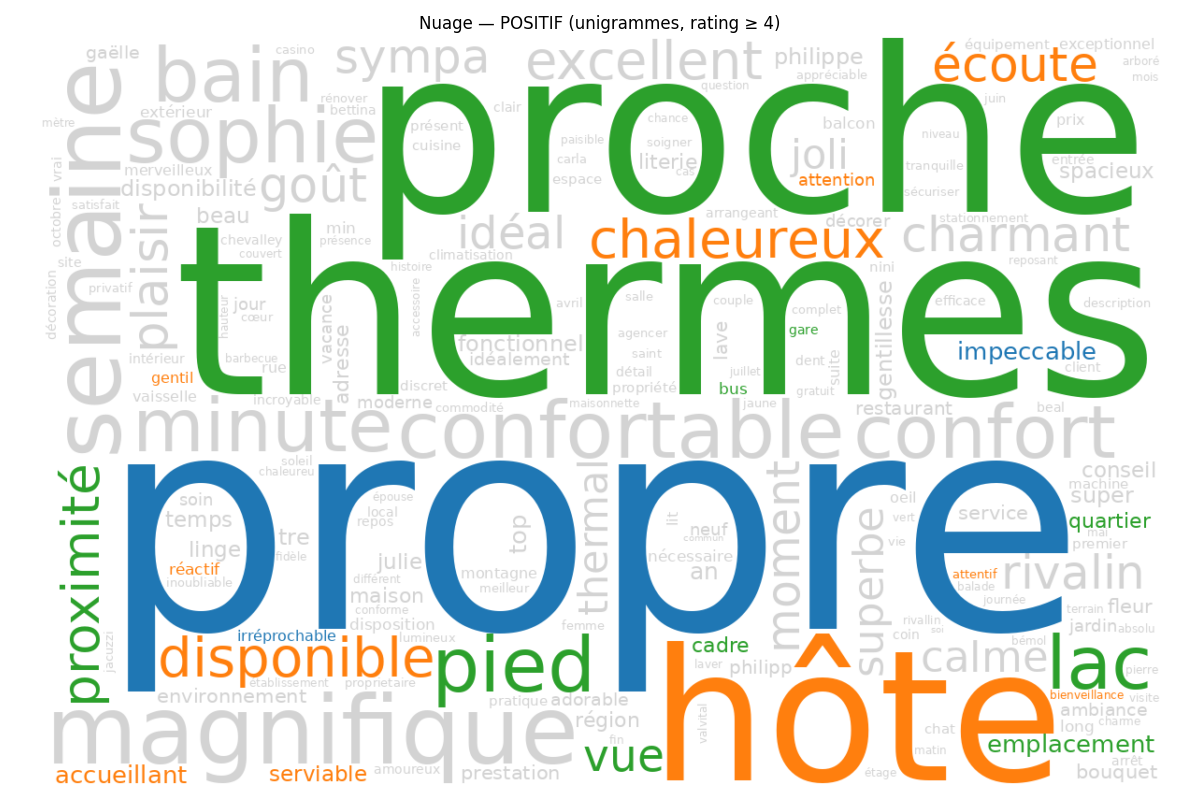
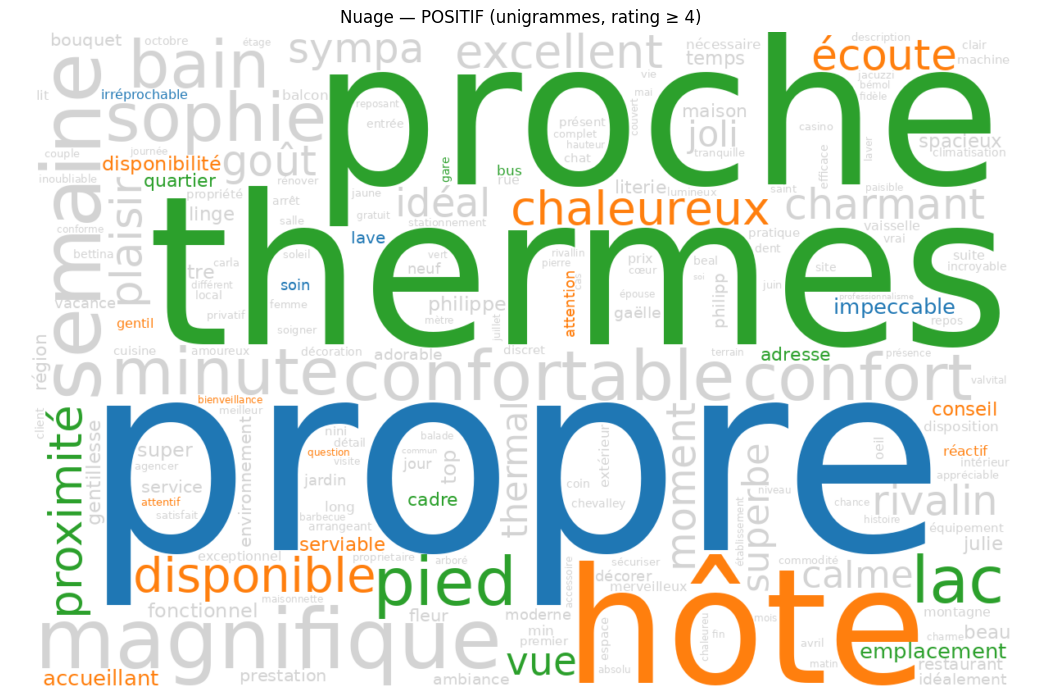
Add some extra words to clusters
+ uncomment main.py

diff --git a/src/analyze_nlp_data.py b/src/analyze_nlp_data.py
@@ -28,7 +28,7 @@ logger = logging.getLogger(__name__)
 # ----------------------------- Ressources linguistiques ------------------------
 
 # spaCy : tokenizer + tagger + lemmatizer (pas de parser/NER pour perf)
-nlp = spacy.load("fr_core_news_lg", disable=["parser", "ner"])
+nlp = spacy.load("fr_core_news_sm", disable=["parser", "ner"])
 
 # Stopwords FR + stopwords de contexte (hébergement)
 STOPWORDS_FR = set(stopwords.words("french"))
@@ -37,7 +37,7 @@ STOPWORDS_METIER = {
     "appart", "chambre", "logements", "immeuble", "airbnb", "booking", "loc", "curiste", "curistes", "cure"
 }
 STOPWORDS_EXTRACLEANING = {
-    "agréable", "bon", "merci",  "sympathique", "impossible"
+    "agréable", "bon", "merci",  "sympathique", "impossible", "an", "vu"
 }
 STOPWORDS = STOPWORDS_FR | STOPWORDS_METIER | STOPWORDS_EXTRACLEANING
 
@@ -300,7 +300,10 @@ def cluster_words(counter: Counter, n_clusters: int = 3, top_n: int = 100) -> di
         grouped.setdefault(lab, []).append(w)
 
     for lab, terms in grouped.items():
-        logger.info("Cluster %d (%d mots): %s", lab, len(terms), sorted(terms)[:15])
+        # Tri par fréquence our un aperçu plus pertinent
+        terms_sorted = sorted(terms, key=lambda t: counter.get(t, 0), reverse=True)
+        preview = terms_sorted[:25]
+        logger.info("Cluster %d (%d mots) — top25 par fréquence: %s", lab, len(terms), preview)
     return grouped
 
 
@@ -575,27 +578,29 @@ def plot_wordclouds_by_rating_with_polarity(
 # ---------- Groupes par défaut (après analyse des données, pour coloriser les nuages) ----------
 POS_G1 = {  # Propreté / état irréprochable
     "propre", "impeccable", "irréprochable", "propreté", "nickel", "net",
-    "propreté", "soigné"
+    "propreté", "soigné", "soin", "lave"
 }
 
 POS_G2 = {  # Localisation / proximité atouts (thermes/lac/centre)
     "thermes", "lac", "proximité", "proche", "pied", "emplacement",
-    "centre", "centre-ville", "gare", "bus", "quartier", "cadre", "vue"
+    "centre", "centre-ville", "gare", "bus", "quartier", "cadre", "vue",
+    "adresse"
 }
 
 POS_G3 = {  # Relation / service hôte
     "hôte", "accueillant", "chaleureux", "disponible", "écoute", "serviable",
-    "réactif", "gentil", "attention", "attentif", "bienveillance", "accueil"
+    "réactif", "gentil", "attention", "attentif", "bienveillance", "accueil",
+    "conseil", "question", "disponibilité", "propriétaire"
 }
 
 NEG_G1 = {  # Literie / confort de sommeil
     "oreiller", "coussin", "lit", "inconfort", "inconfortable", "désagréable",
-    "sommeil", "matelas", "froid", "bruyant", "épais"
+    "sommeil", "matelas", "froid", "bruyant"
 }
 
 NEG_G2 = {  # Vétusté / état / équipements
     "vieux", "vétuste", "meuble", "dépareillé", "usé", "étroit", "sombre",
-    "petit", "humide", "démodé", "réception", "moustique", "isolé"
+    "petit", "humide", "démodé", "réception", "moustique", "isolé", "inutilisable"
 }
 
 NEG_G3 = {  # Prix / valeur perçue

diff --git a/src/main.py b/src/main.py
@@ -54,7 +54,7 @@ if __name__ == "__main__":
     load_dotenv()
     GOOGLE_API_KEY = os.getenv("GOOGLE_API_KEY")
     SERP_API_KEY = os.getenv("SERP_API_KEY")
-    """
+    
     # ========== 1) Ingestion, nettoyage & export des Google places ==========
     df_places = fetch_data(INPUT_JSON_DIR)
     df_places = clean_data(df_places)
@@ -73,7 +73,7 @@ if __name__ == "__main__":
    
     # ========== 3) Visualisation simple des Google reviews (hors NLP) ==========
     show_data(REVIEWS_XLSX, top_n=20)
-    """
+    
     # ========== 4) Analyse NLP & Wordclouds ==========
     # Prépare les lexiques de polarité (liste custom + VADER)
     build_and_set_polarity_lexicons(include_vader=True)
@@ -87,7 +87,7 @@ if __name__ == "__main__":
     # Génère les nuages (unigrams + bigrams) par polarité (basé sur le rating)
     plot_wordclouds_by_rating_with_polarity(df_reviews, max_words=200, use_bigrams=False, commons_min_count=1, pos_groups=pos_groups, neg_groups=neg_groups)
     
-    # ========== Test non concluant : exploration cluserisation auto ==========
+    # ========== Bonus : exploration cluserisation auto ==========
     clusters_pos, clusters_neg = cluster_from_reviews(
         df_reviews, 
         n_clusters_pos=3, 
